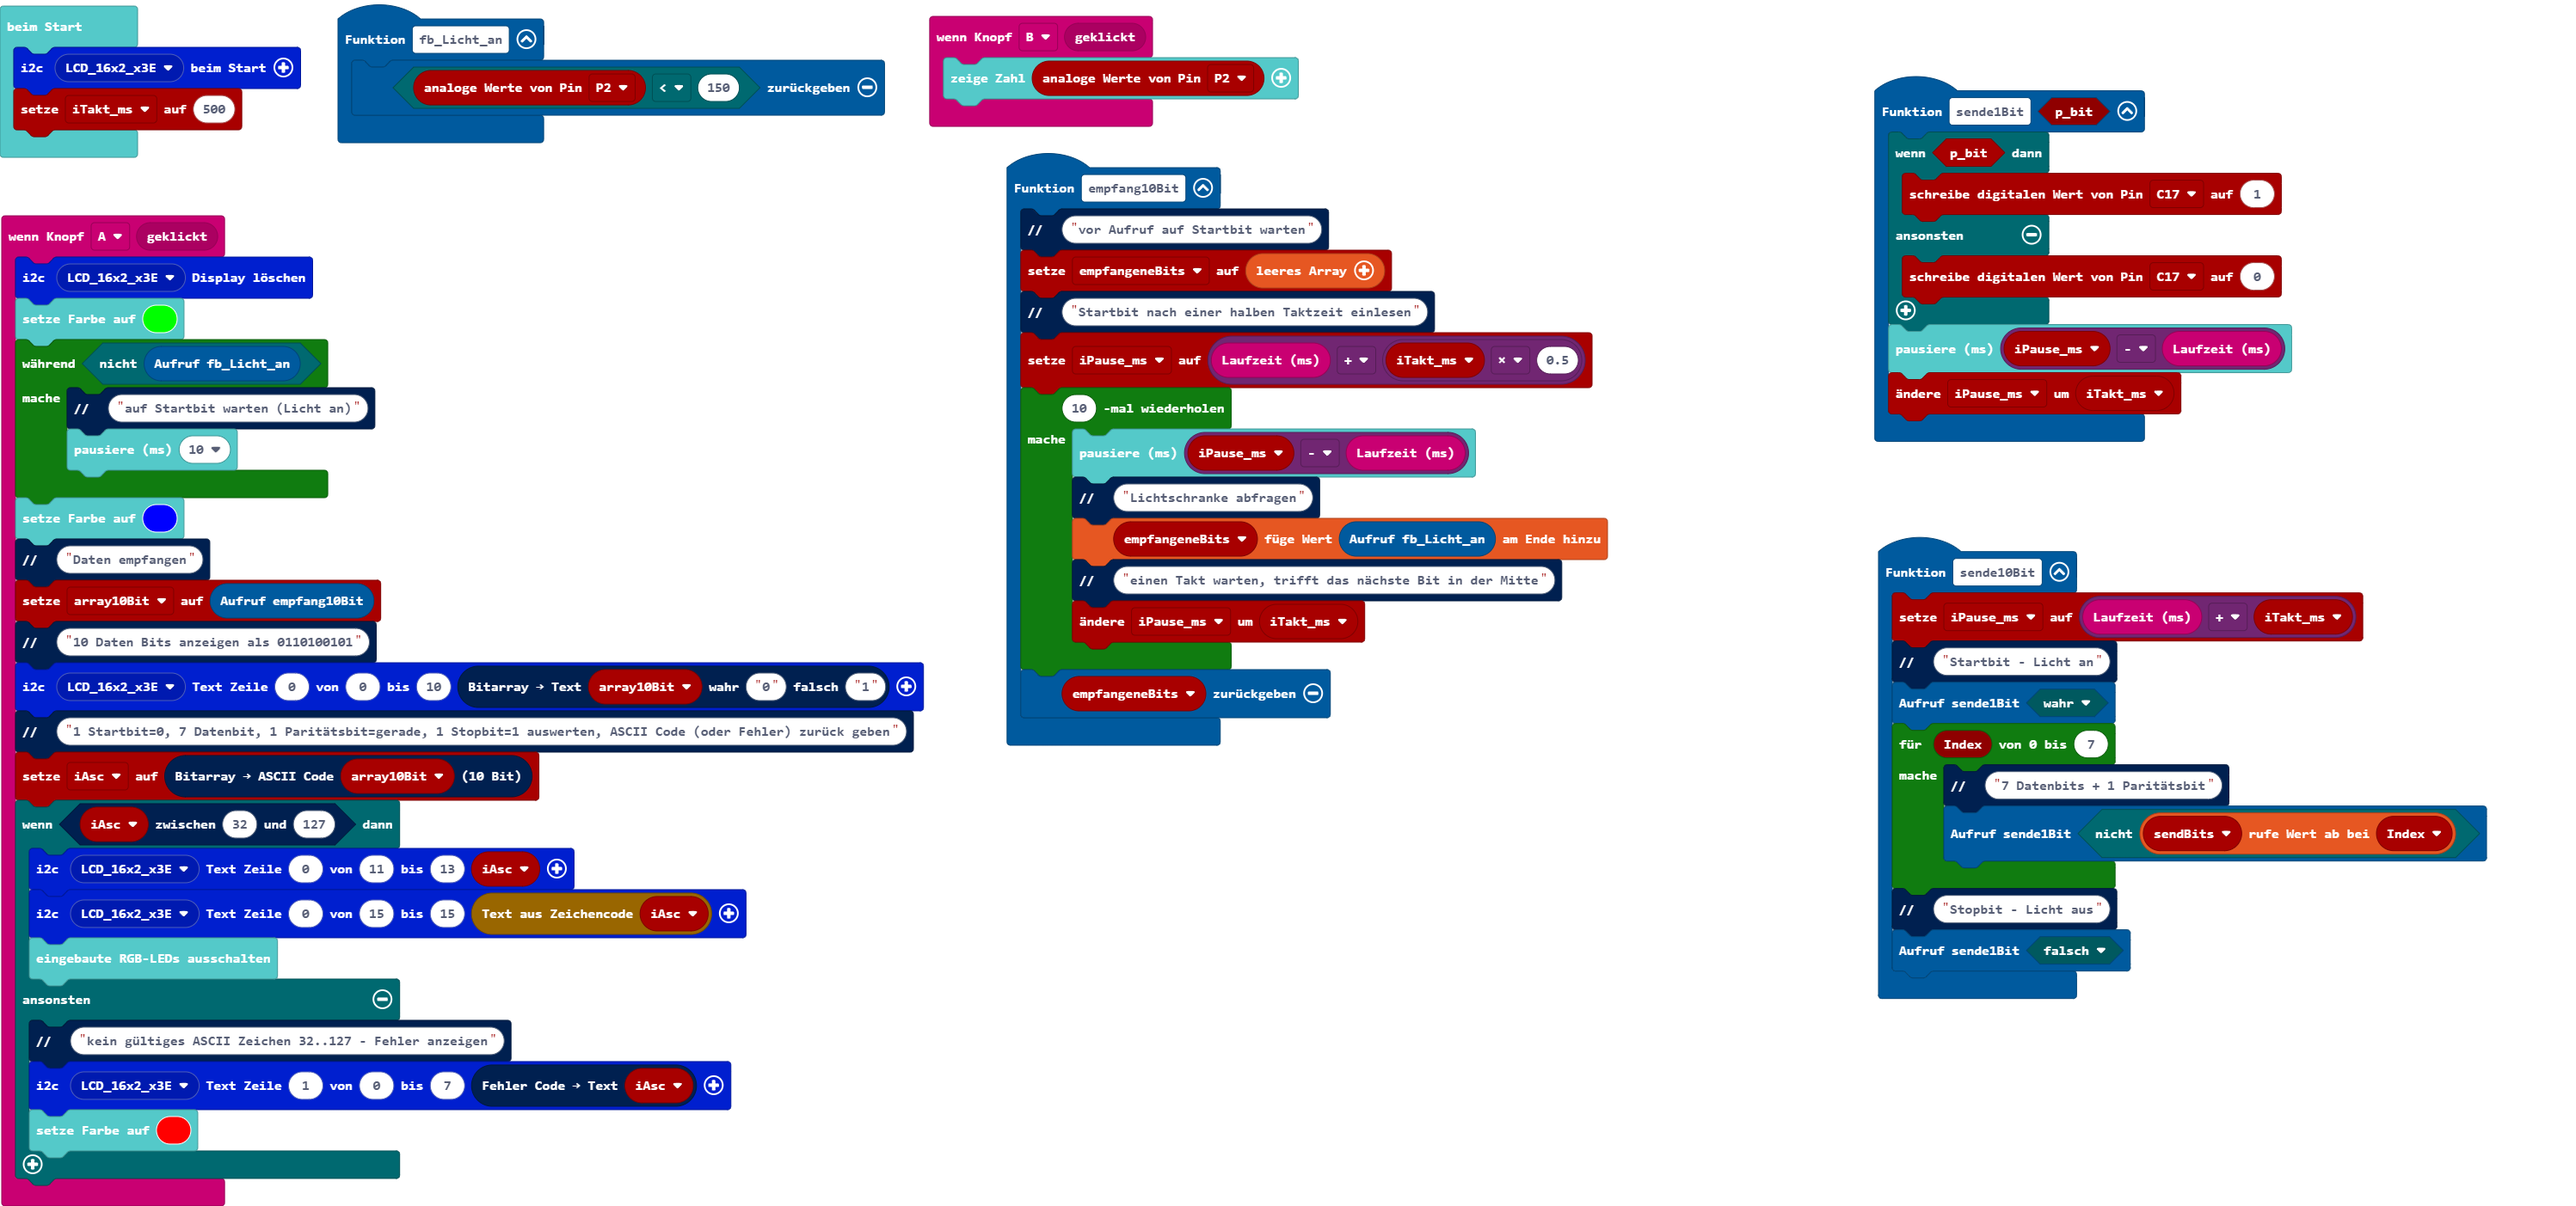
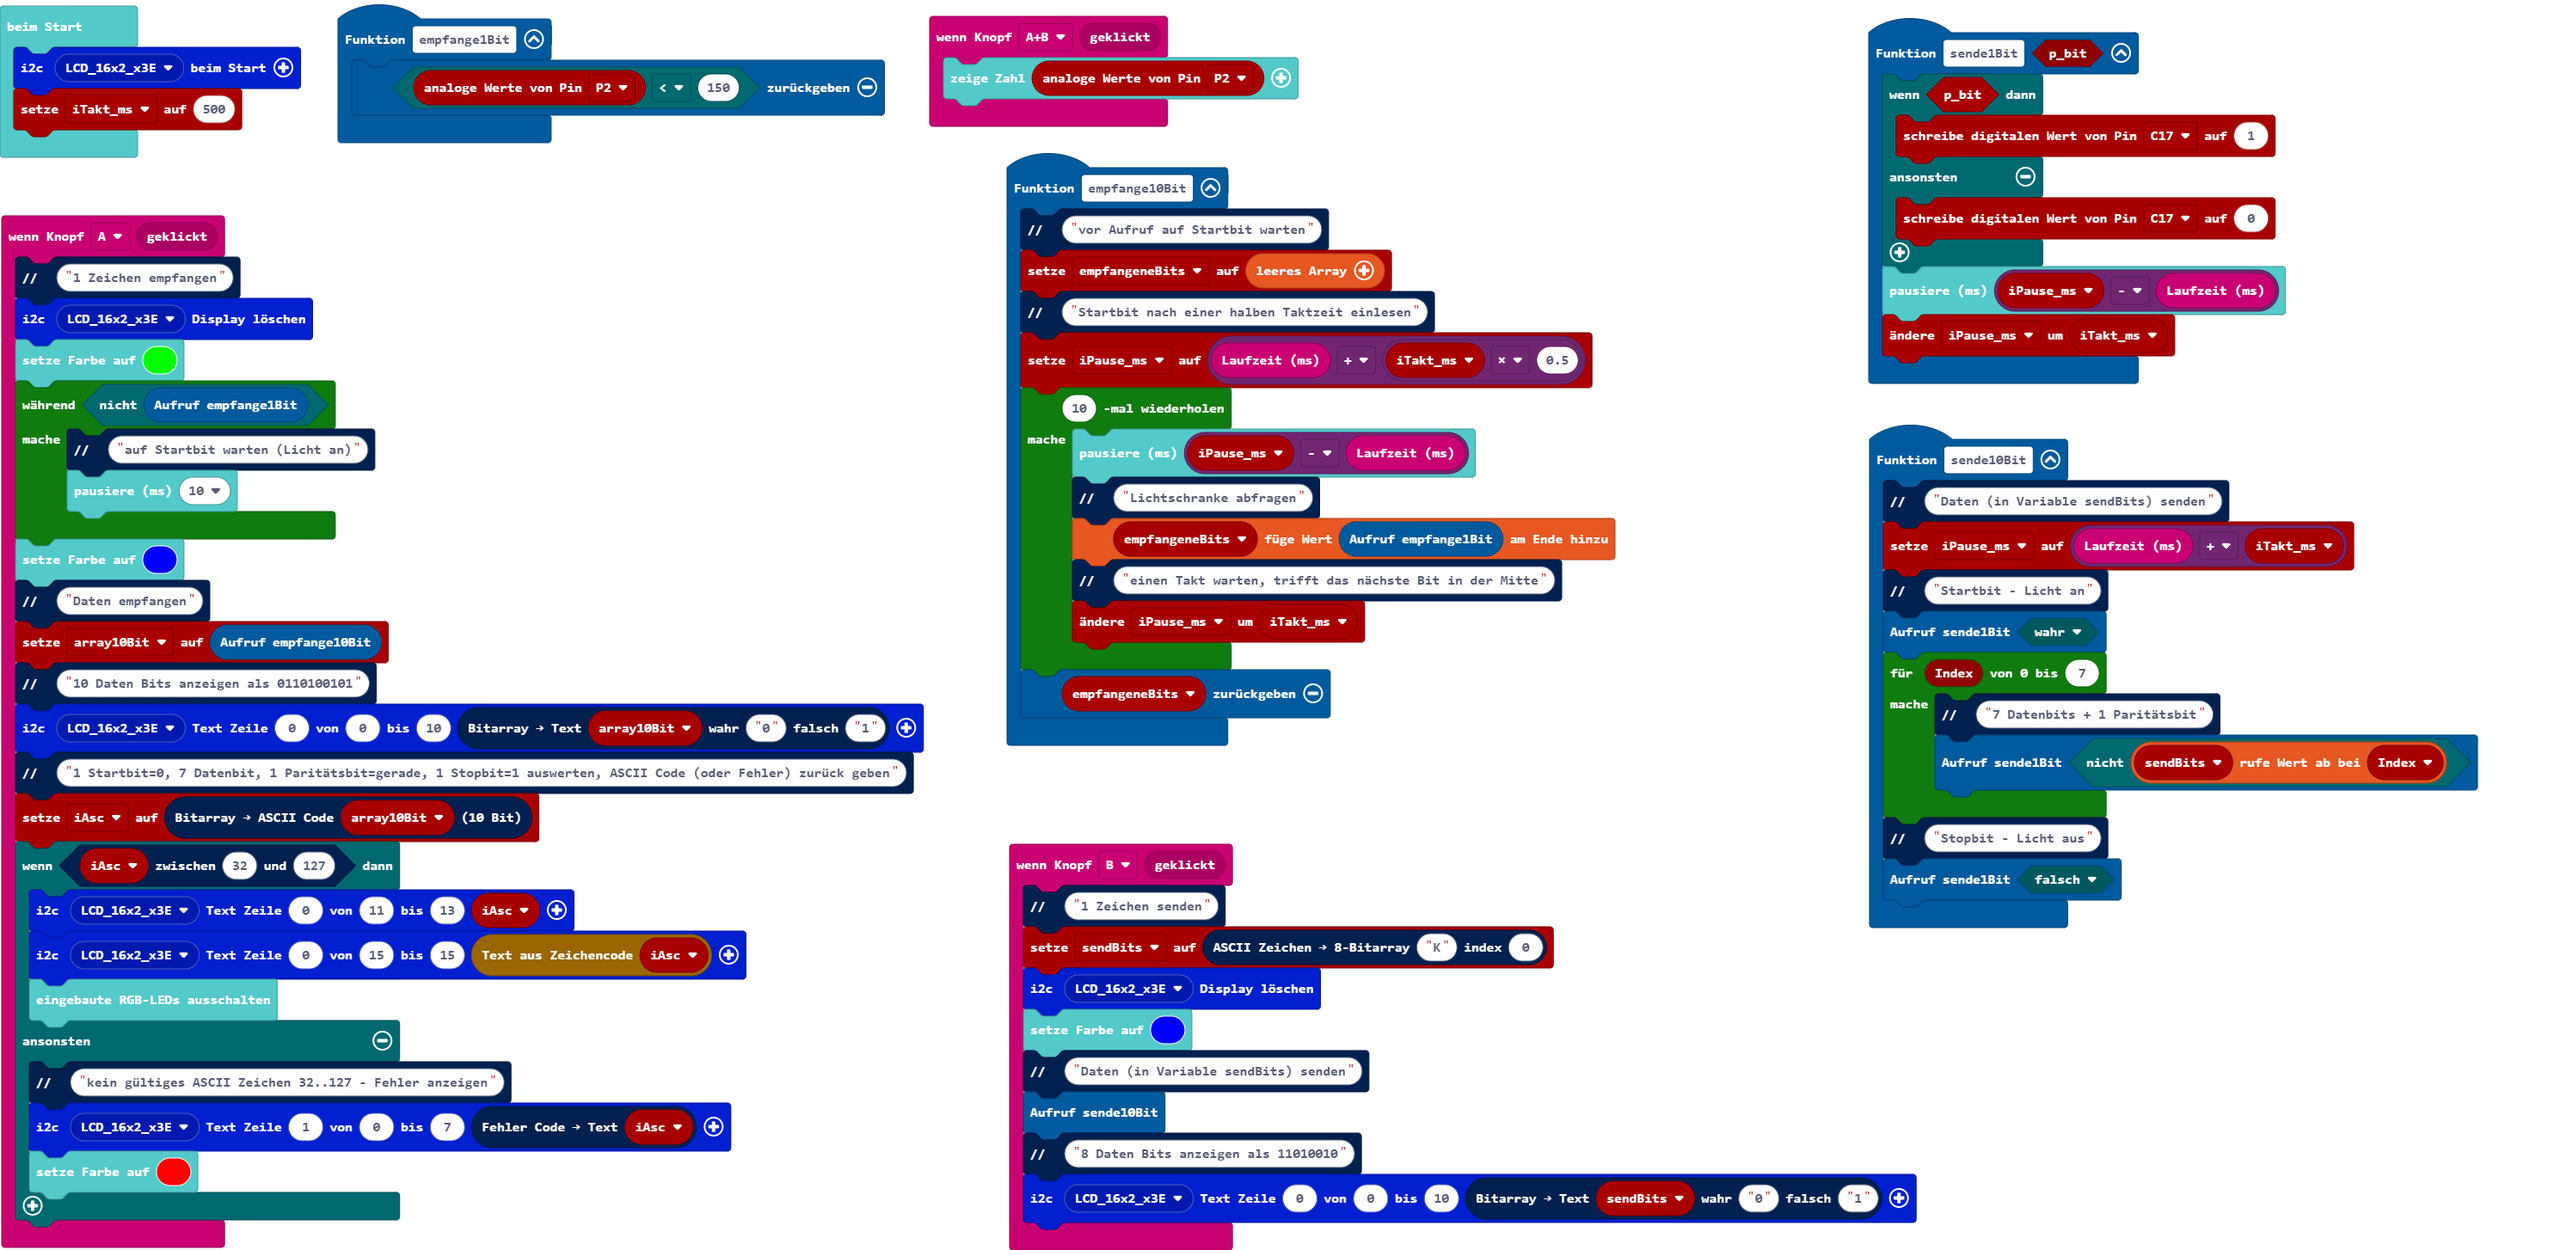
Aktualisiere main.blocks, main.ts, rs232.ts

Changed region(s): [[0.0, 0.0, 0.6543, 1.0], [0.7166, 0.0, 0.9658, 0.8275], [0.3739, 0.6743, 0.7477, 1.0]]

diff --git a/main.ts b/main.ts
@@ -1,4 +1,4 @@
-function empfang10Bit () {
+function empfange10Bit () {
     rs232.comment("vor Aufruf auf Startbit warten")
     empfangeneBits = []
     rs232.comment("Startbit nach einer halben Taktzeit einlesen")
@@ -6,18 +6,18 @@ function empfang10Bit () {
     for (let index = 0; index < 10; index++) {
         basic.pause(iPause_ms - input.runningTime())
         rs232.comment("Lichtschranke abfragen")
-        empfangeneBits.push(fb_Licht_an())
+        empfangeneBits.push(empfange1Bit())
         rs232.comment("einen Takt warten, trifft das nächste Bit in der Mitte")
         iPause_ms += iTakt_ms
     }
     return empfangeneBits
 }
 function sende10Bit () {
+    rs232.comment("Daten (in Variable sendBits) senden")
     iPause_ms = input.runningTime() + iTakt_ms
     rs232.comment("Startbit - Licht an")
     sende1Bit(true)
     for (let Index = 0; Index <= 7; Index++) {
-        let sendBits: number[] = []
         rs232.comment("7 Datenbits + 1 Paritätsbit")
         sende1Bit(!(sendBits[Index]))
     }
@@ -25,19 +25,20 @@ function sende10Bit () {
     sende1Bit(false)
 }
 input.onButtonEvent(Button.A, input.buttonEventClick(), function () {
+    rs232.comment("1 Zeichen empfangen")
     lcd16x2rgb.clearScreen(lcd16x2rgb.lcd16x2_eADDR(lcd16x2rgb.eADDR_LCD.LCD_16x2_x3E))
     basic.setLedColor(0x00ff00)
-    while (!(fb_Licht_an())) {
+    while (!(empfange1Bit())) {
         rs232.comment("auf Startbit warten (Licht an)")
         basic.pause(10)
     }
     basic.setLedColor(0x0000ff)
     rs232.comment("Daten empfangen")
-    array10Bit = empfang10Bit()
+    array10Bit = empfange10Bit()
     rs232.comment("10 Daten Bits anzeigen als 0110100101")
     lcd16x2rgb.writeText(lcd16x2rgb.lcd16x2_eADDR(lcd16x2rgb.eADDR_LCD.LCD_16x2_x3E), 0, 0, 10, rs232.bin_toString(array10Bit, "0", "1"))
     rs232.comment("1 Startbit=0, 7 Datenbit, 1 Paritätsbit=gerade, 1 Stopbit=1 auswerten, ASCII Code (oder Fehler) zurück geben")
-    iAsc = rs232.bin_toAsc(array10Bit)
+    iAsc = rs232.binToAsc(array10Bit)
     if (rs232.between(iAsc, 32, 127)) {
         lcd16x2rgb.writeText(lcd16x2rgb.lcd16x2_eADDR(lcd16x2rgb.eADDR_LCD.LCD_16x2_x3E), 0, 11, 13, iAsc)
         lcd16x2rgb.writeText(lcd16x2rgb.lcd16x2_eADDR(lcd16x2rgb.eADDR_LCD.LCD_16x2_x3E), 0, 15, 15, String.fromCharCode(iAsc))
@@ -57,14 +58,25 @@ function sende1Bit (p_bit: boolean) {
     basic.pause(iPause_ms - input.runningTime())
     iPause_ms += iTakt_ms
 }
-function fb_Licht_an () {
-    return pins.analogReadPin(AnalogPin.P2) < 150
-}
-input.onButtonEvent(Button.B, input.buttonEventClick(), function () {
+input.onButtonEvent(Button.AB, input.buttonEventClick(), function () {
     basic.showNumber(pins.analogReadPin(AnalogPin.P2))
 })
+input.onButtonEvent(Button.B, input.buttonEventClick(), function () {
+    rs232.comment("1 Zeichen senden")
+    sendBits = rs232.chrToBin("K", 0)
+    lcd16x2rgb.clearScreen(lcd16x2rgb.lcd16x2_eADDR(lcd16x2rgb.eADDR_LCD.LCD_16x2_x3E))
+    basic.setLedColor(0x0000ff)
+    rs232.comment("Daten (in Variable sendBits) senden")
+    sende10Bit()
+    rs232.comment("8 Daten Bits anzeigen als 11010010")
+    lcd16x2rgb.writeText(lcd16x2rgb.lcd16x2_eADDR(lcd16x2rgb.eADDR_LCD.LCD_16x2_x3E), 0, 0, 10, rs232.bin_toString(sendBits, "0", "1"))
+})
+function empfange1Bit () {
+    return pins.analogReadPin(AnalogPin.P2) < 150
+}
 let iAsc = 0
 let array10Bit: boolean[] = []
+let sendBits: boolean[] = []
 let iPause_ms = 0
 let empfangeneBits: boolean[] = []
 let iTakt_ms = 0

diff --git a/rs232.ts b/rs232.ts
@@ -8,11 +8,37 @@ namespace rs232
 */ {
 
 
+
+    // ========== group="Senden: 7 Datenbit, 1 Paritätsbit"
+
+    //% group="Senden: 7 Datenbit, 1 Paritätsbit"
+    //% block="ASCII Zeichen → 8-Bitarray %text index %index" weight=5
+    export function chrToBin(text: string, index: number) {
+        return ascToBin(text.charCodeAt(index))
+    }
+
+    //% group="Senden: 7 Datenbit, 1 Paritätsbit"
+    //% block="ASCII Code → 8-Bitarray %ascByte" weight=4
+    export function ascToBin(ascByte: number) {
+        let iParity = 0, bBit: boolean
+        let bitArray: boolean[]
+        for (let index = 0; index < 7; index++) {
+            bBit = ascByte % 2 != 0 // ungerade Zahl - Bit=true
+            bitArray.push(bBit) // [0]..[6] 7 Bit
+            if (bBit)
+                iParity++
+            ascByte >> 1 // um 1 Bit nach rechts schieben
+        }
+        bitArray.push(iParity % 2 != 0) // [7] das 8. Bit Parity
+        return bitArray
+    }
+
+
     // ========== group="Empfang"
 
     //% group="Empfang: 1 Startbit, 7 Datenbit, 1 Paritätsbit, 1 Stopbit"
     //% block="Bitarray → ASCII Code %bitArray (10 Bit)" weight=2
-    export function bin_toAsc(bitArray: boolean[]) {
+    export function binToAsc(bitArray: boolean[]) {
         let iDez = 0, iParity = 0, iFehler = 0
         let iExp = 1
         let bBit: boolean
